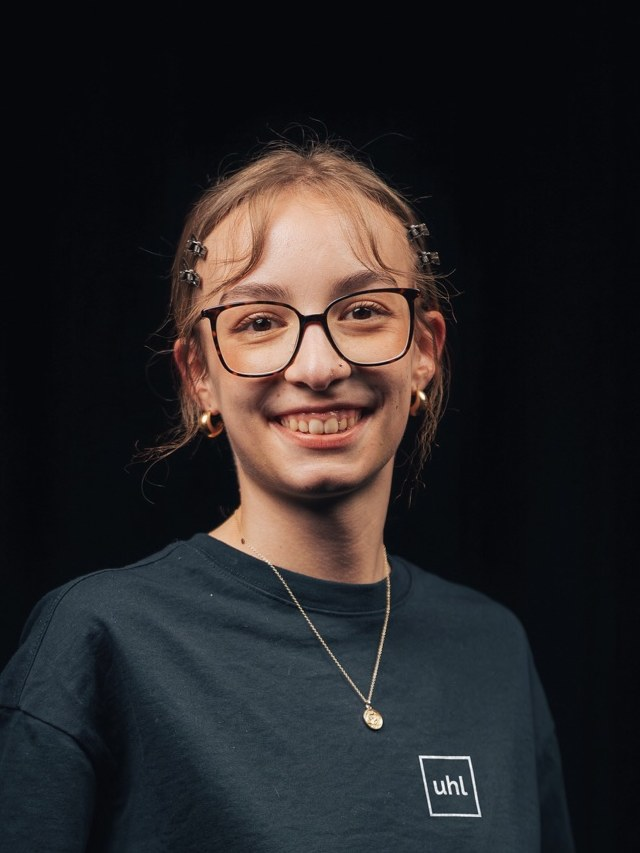
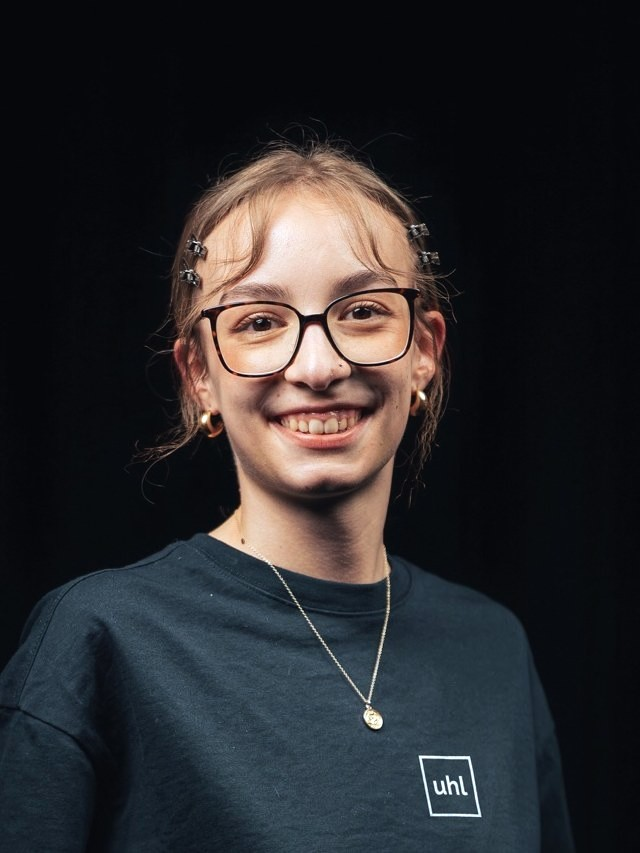
Donauries-Pitch: Hauttöne von Kay und Marion angeglichen, Subline ohne Website

diff --git a/src/slides/donauries-social/slides.tsx b/src/slides/donauries-social/slides.tsx
@@ -23,7 +23,7 @@ export const TitleSlide: React.FC = () => (
     <img src="/donauries/logo.png" alt="DONAURIES" style={{ width: 360, height: 'auto' }} />
     <div style={{ display: 'flex', flexDirection: 'column', alignItems: 'center', gap: 18 }}>
       <div style={{ fontSize: 64, fontWeight: 700 }}>Eine Region. Überall sichtbar.</div>
-      <div style={{ fontSize: 30, letterSpacing: '0.04em', color: C.muted }}>Social Media, Website und Outdoor-Plattformen aus einem Guss</div>
+      <div style={{ fontSize: 30, letterSpacing: '0.04em', color: C.muted }}>Social Media und Outdoor-Plattformen aus einem Guss</div>
     </div>
   </div>
 );
